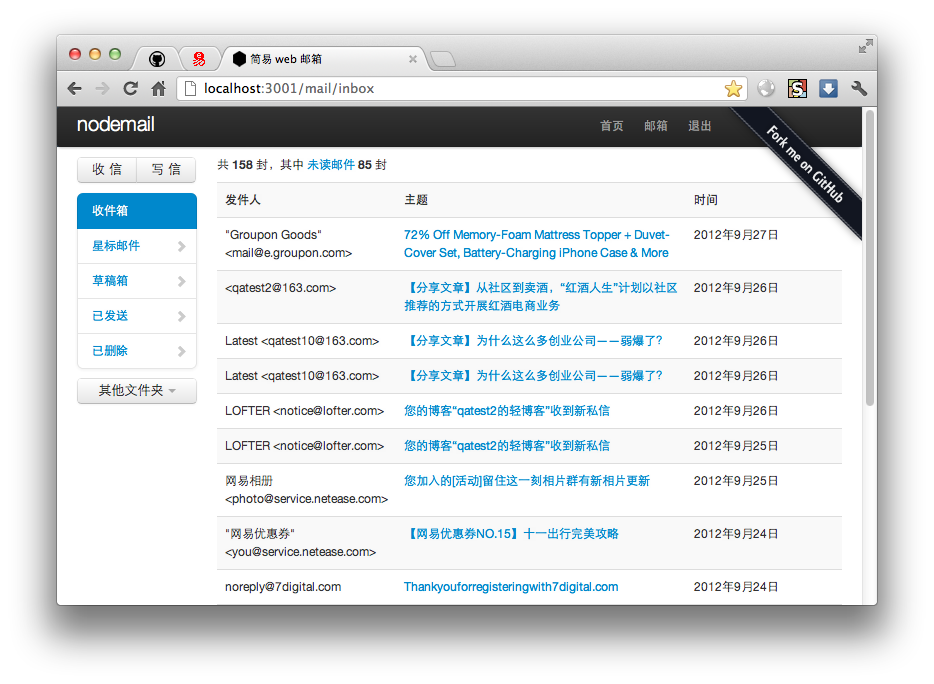
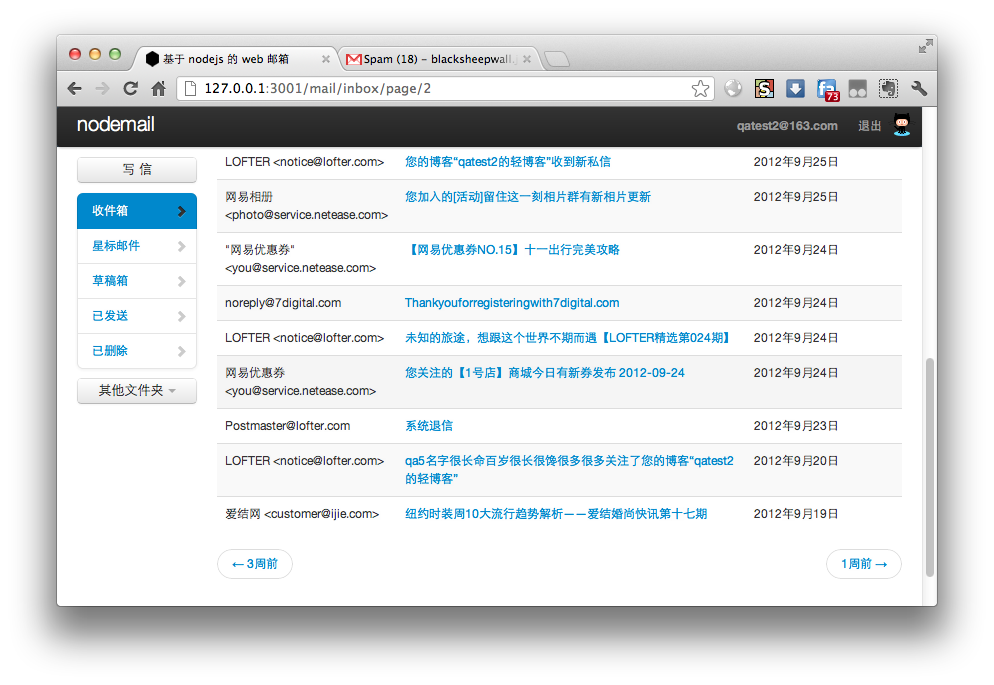
update screenshot & tweak index-page

diff --git a/views/mail/mail.html b/views/mail/mail.html
@@ -3,10 +3,10 @@
 <div class="main-body mail-page" id="J_content">
   <div class="btn-groups clearfix" id="J_toolbar">
     <div class="btn-group">
-      <button class="btn"><a href="/mail/inbox">返回</a> </button>
+      <a href="/mail/inbox"><button class="btn">返回</button></a>
     </div>
     <div class="btn-group">
-      <button class="btn"><a href="/mail/inbox/<%=id%>/compose">回复</a> </button>
+      <a href="/mail/inbox/<%=id%>/compose"><button class="btn">回复</button></a>
     </div>
     <!--<div class="btn-group">-->
       <!--<button class="btn">转发 </button>-->
@@ -20,7 +20,6 @@
         <li><a href="#">已读邮件</a></li>
         <li><a href="#">未读邮件</a></li>
         <li><a href="#">已删除</a></li>
-        <li class="divider"></li>
         <li><a href="#">垃圾邮件</a></li>
       </ul>
     </div>

diff --git a/routes.js b/routes.js
@@ -1,3 +1,4 @@
+var index = require('./controllers/index');
 var site = require('./controllers/site');
 var sign = require('./controllers/sign');
 var mail = require('./controllers/mail');
@@ -31,6 +32,7 @@ module.exports = function(app) {
   app.get('/mail/compose', compose.index);
 
   // ajax
+  app.get('/ajax/mail/index', index);
   app.get('/ajax/mail/inbox', inbox.getAll);
   app.get('/ajax/mail/flagged', inbox.getFlagged);
   app.get('/ajax/mail/seen', inbox.getSeen);

diff --git a/views/sign/sidebar.html b/views/sign/sidebar.html
@@ -7,9 +7,9 @@
       <p><%= config.description %></p>  
       <p>目前支持的邮箱有：</p>
       <ul>
+        <li>gmail</li>
         <li>163</li>
         <li>126</li>
-        <li>gmail</li>
         <li>sina.cn</li>
       </ul>
     </div>

diff --git a/views/mail/index.html b/views/mail/index.html
@@ -1,7 +1,4 @@
 <%- include side.html %>
 
-<div class="main-body" id="J_content">
-  <pre>
-  <%- include ../../README.md %>
-  </pre>
-</div>
+<div class="main-body" id="J_content"></div>
+<script src="/javascripts/index.js"></script>

diff --git a/controllers/inbox.js b/controllers/inbox.js
@@ -11,7 +11,7 @@ var imap, mailObject = {};
 
 var inboxPage;
 
-emitter.setMaxListeners(0);
+emitter.setMaxListeners(100);
 moment.lang('zh-cn');
 
 emitter.on('messages', function(res) {

diff --git a/public/javascripts/index.js b/public/javascripts/index.js
@@ -1,0 +1,5 @@
+$(function() {
+  $.get('/ajax/mail/index').done(function(result) {
+    $('#J_content').html(result);
+  });
+});

diff --git a/controllers/index.js b/controllers/index.js
@@ -1,0 +1,3 @@
+module.exports = function(req, res) {
+  res.partial('../README.md');
+};
